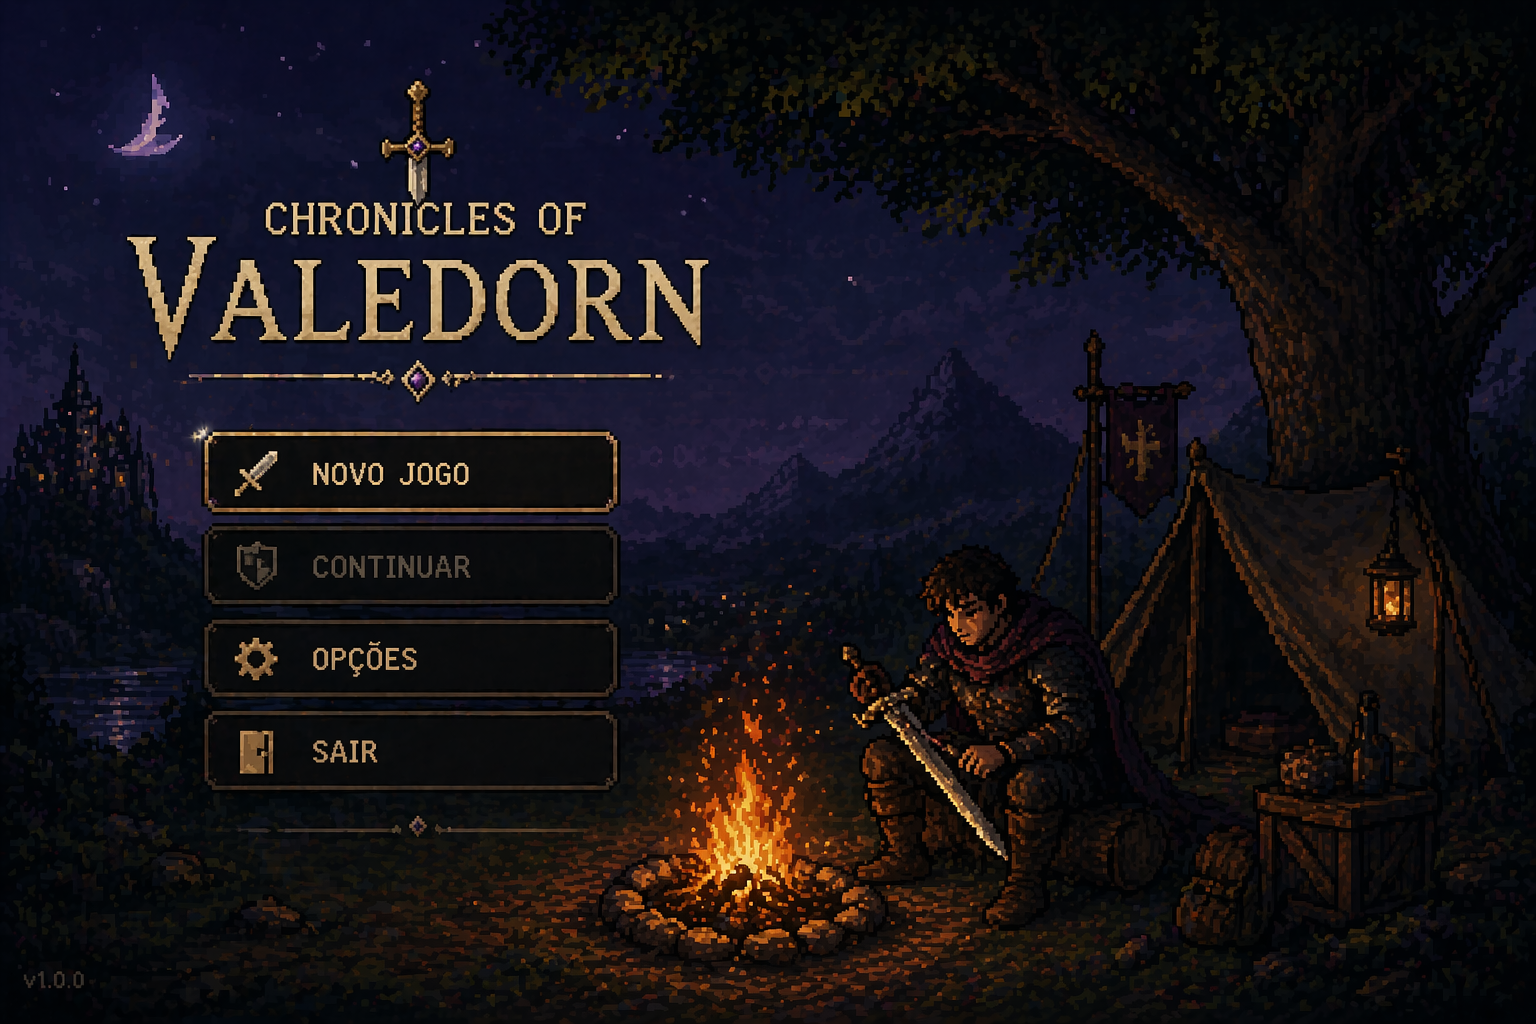
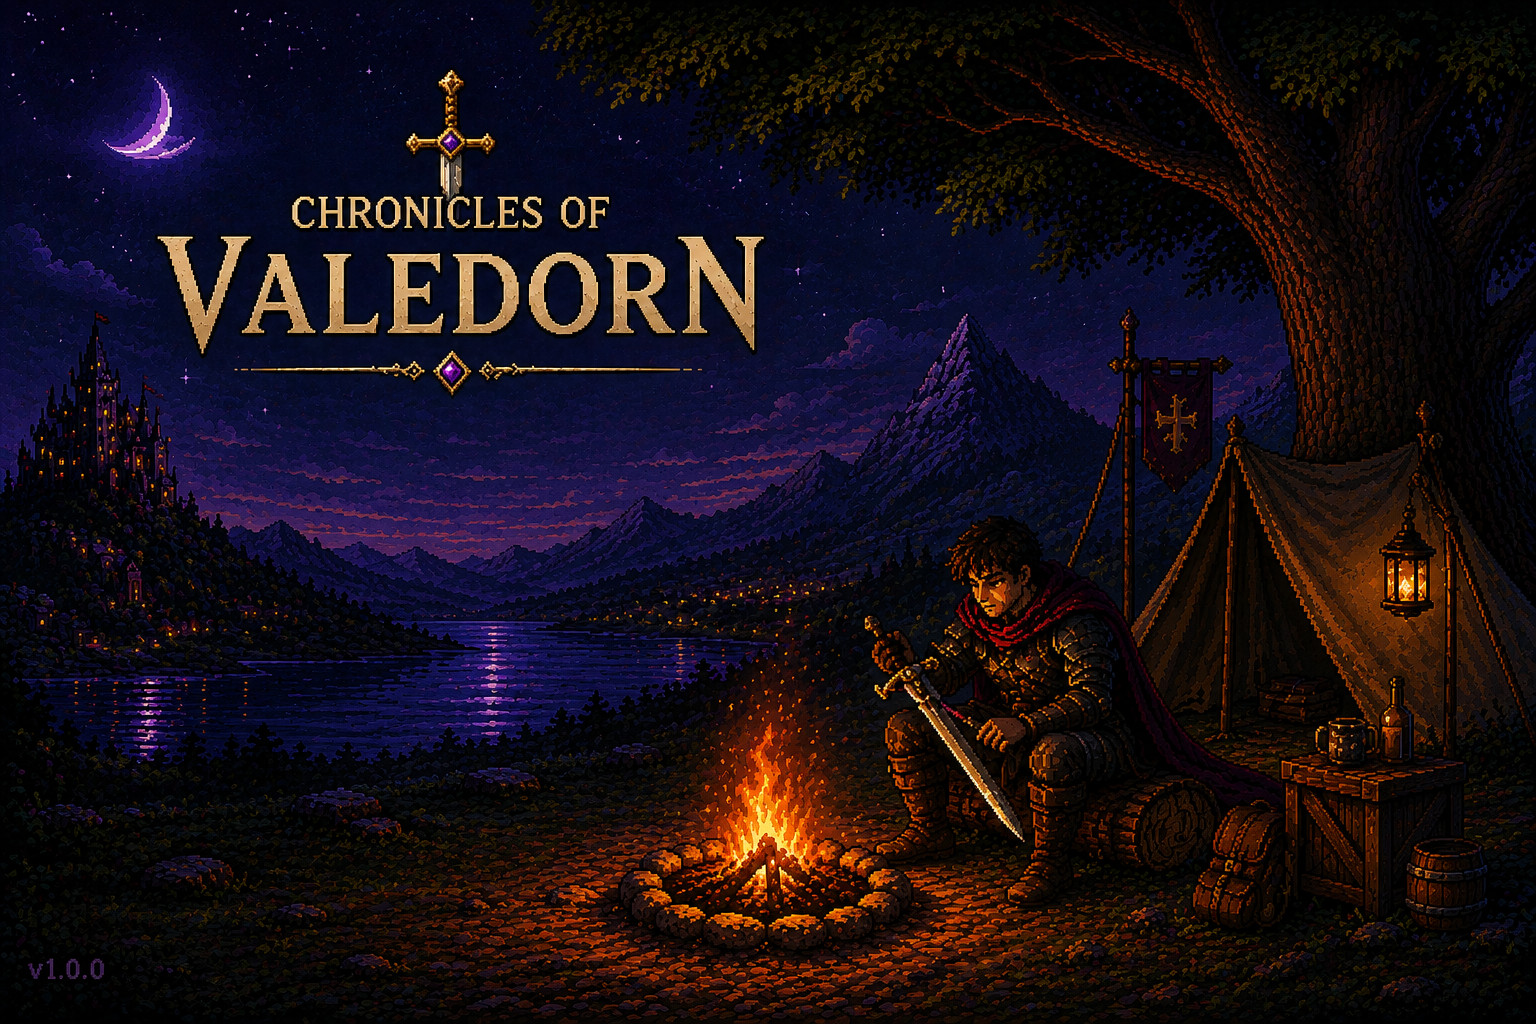
ajuste nos botoes e imagem

diff --git a/src/App.css b/src/App.css
@@ -10,7 +10,7 @@
 
 .menu-screen {
   position: relative;
-  width: min(96vw, 1200px);
+  width: min(150vw, 1200px);
   aspect-ratio: 3 / 2;
   border: 2px solid #5e4327;
   box-shadow: 0 20px 40px rgba(0, 0, 0, 0.5);
@@ -36,7 +36,7 @@
 
 .embers {
   position: absolute;
-  right: 22%;
+  right: 45%;
   bottom: 10%;
   width: 150px;
   height: 100px;
@@ -64,21 +64,22 @@
 
 .menu-buttons {
   position: absolute;
-  left: 21%;
-  top: 40%;
-  width: 39%;
-  display: flex;
-  flex-direction: column;
-  gap: clamp(8px, 1.4vh, 14px);
+  left: 13%;
+  top: 41.3%;
+  width: 32%;
+  height: 30.8%;
+  display: grid;
+  grid-template-rows: repeat(4, 1fr);
+  gap: clamp(8px, 1.1vh, 12px);
 }
 
 .menu-btn {
-  height: clamp(44px, 6vh, 14px);
+  height: 100%;
   border-radius: 10px;
   border: 2px solid rgba(217, 167, 93, 0.8);
   background: linear-gradient(180deg, rgba(18, 24, 34, 0.88), rgba(7, 11, 18, 0.92));
   color: #f2d494;
-  font-size: clamp(18px, 2vw, 42px);
+  font-size: clamp(16px, 1.85vw, 34px);
   font-weight: 700;
   letter-spacing: 1px;
   text-transform: uppercase;
@@ -209,9 +210,10 @@
 
 @media (max-width: 900px) {
   .menu-buttons {
-    left: 18%;
-    width: 47%;
-    top: 40%;
+    left: 60%;
+    top: 40.8%;
+    width: 48%;
+    height: 37%;
   }
 
   .menu-btn {
